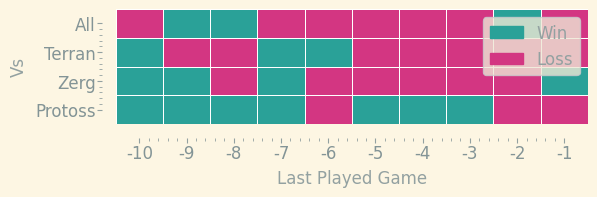
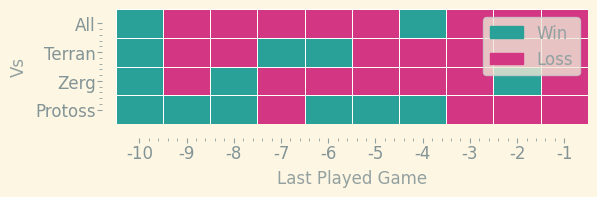
running on push

diff --git a/docs/index.md b/docs/index.md
@@ -18,7 +18,7 @@ layout: home
   <tbody>
     <tr>
       <td>Matches Played</td>
-      <td>1445</td>
+      <td>1447</td>
     </tr>
     <tr>
       <td>MMR Gained</td>
@@ -114,9 +114,9 @@ layout: home
 
 | Race    |   Wins |   Losses |   Total |   Win Rate (%) |   MMR Gained |   MMR Lost |
 |:--------|-------:|---------:|--------:|---------------:|-------------:|-----------:|
-| Protoss |    244 |      330 |     574 |        42.5087 |         4524 |       5491 |
+| Protoss |    245 |      330 |     575 |        42.6087 |         4524 |       5491 |
 | Terran  |    155 |      198 |     353 |        43.9093 |         3841 |       2878 |
-| Zerg    |    275 |      210 |     485 |        56.701  |         4508 |       4429 |
+| Zerg    |    276 |      210 |     486 |        56.7901 |         4508 |       4429 |
 
 ![Games by Race](./assets/gm_hist.png)
 
